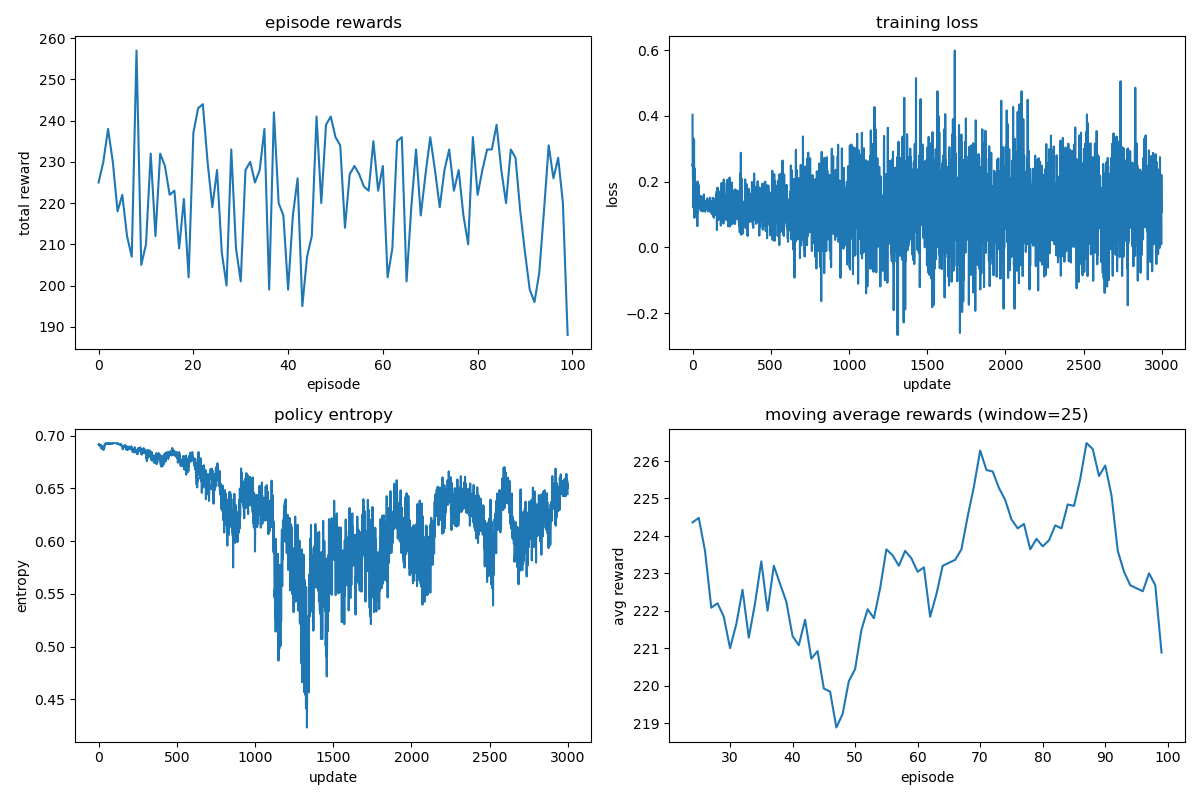
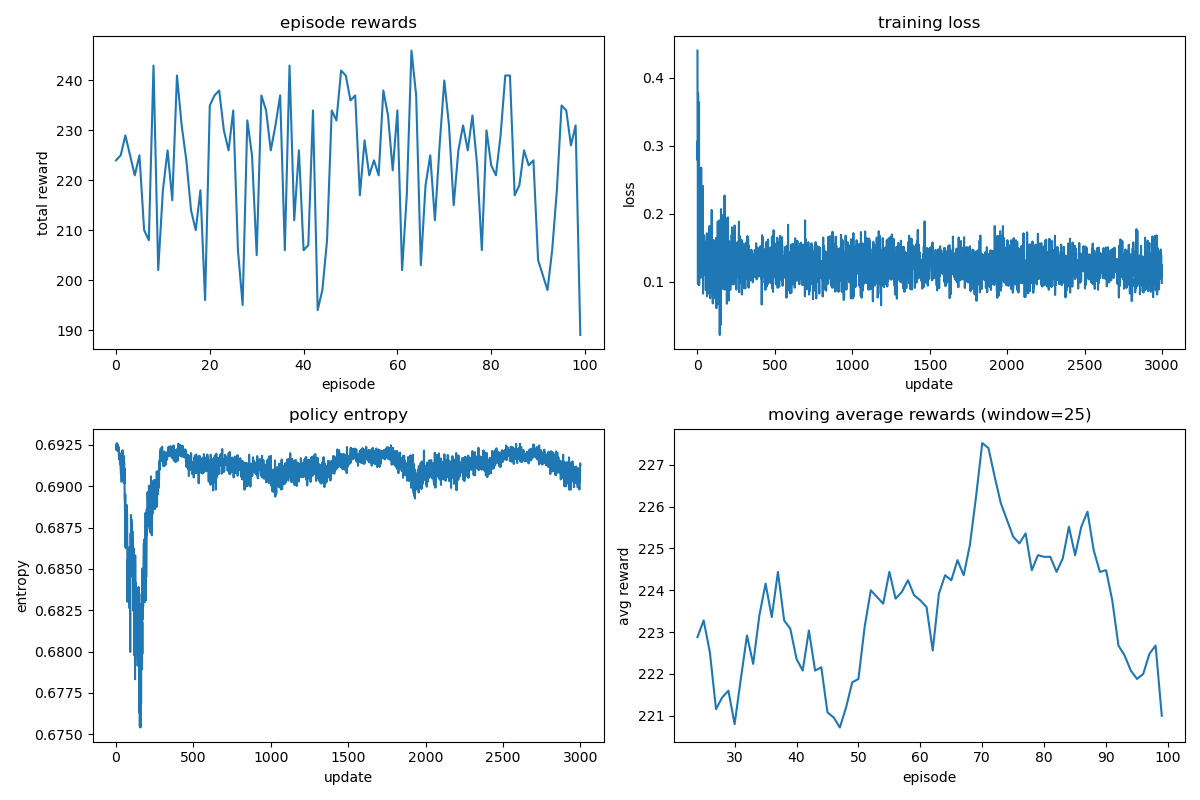
fixed up some data commits

diff --git a/cody_code/RLbandit.py b/cody_code/RLbandit.py
@@ -465,6 +465,10 @@ def main():
     agent.plot_training_progress()
     return agent
 
+#two future approaches:
+#   
+#look at weights in RNNs
+#shap analysis
 
 if __name__ == "__main__":
     trained_agent = main()
